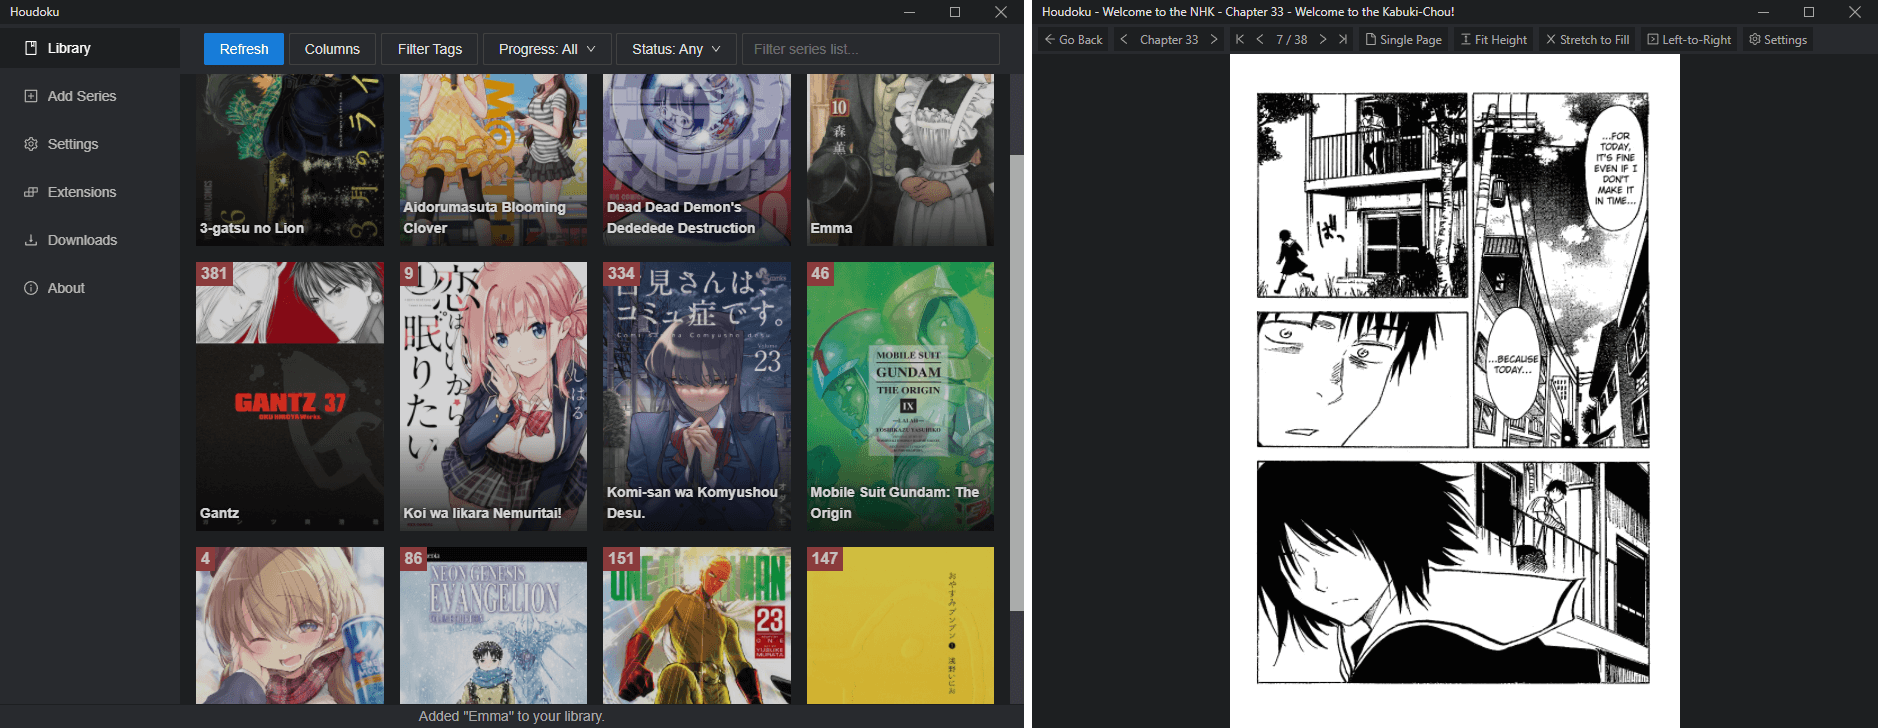
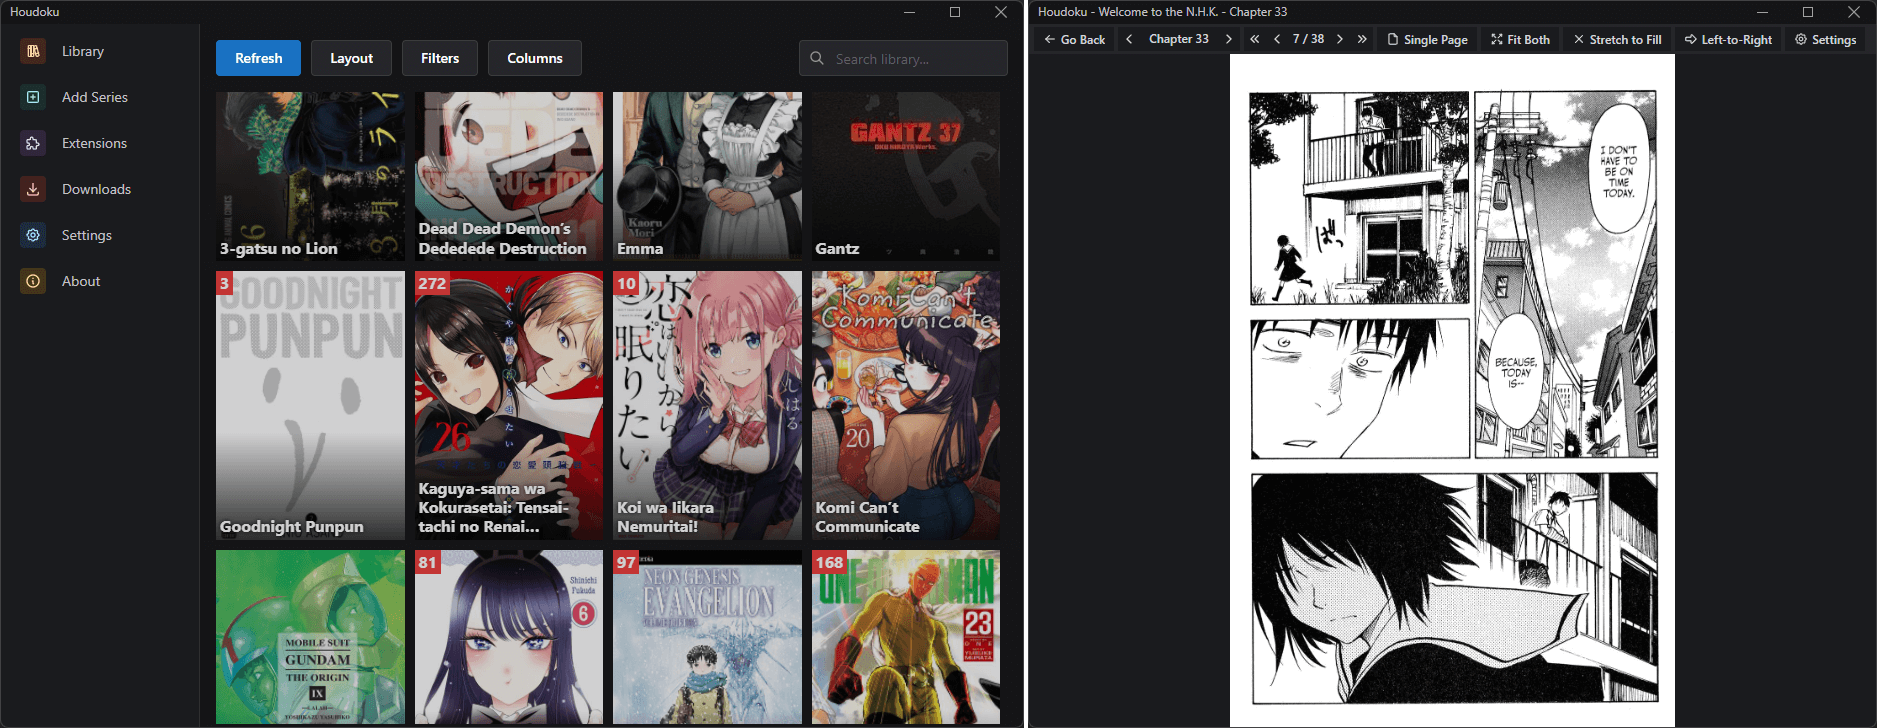
readme: update screenshots and antd->mantine

diff --git a/README.md b/README.md
@@ -53,11 +53,10 @@ yarn start
 
 **Application**: This is an Electron application. The majority of the functionality is performed in the renderer thread. Exceptions are for cases like accessing the window class (i.e. to support minimizing the window), locating application directories, and for working with extensions. The renderer can invoke these functions through ipc.
 
-**UI**: The interface uses React components. Most base components (text, buttons, links, etc.) come from the [antd](https://ant.design)
-framework. Each component has a CSS file for custom styles.
+**UI**: The interface uses React components. Most base components (text, buttons, links, etc.) come from [Mantine](https://mantine.dev/).
 
 **State**: [Recoil](https://recoiljs.org) is used for state management. Hooks are used for small
-non-shared behavior. 
+non-shared behavior.
 
 **Storage**: Library data and settings are saved with `localStorage`. Thumbnails are stored in
 the user-data path.
